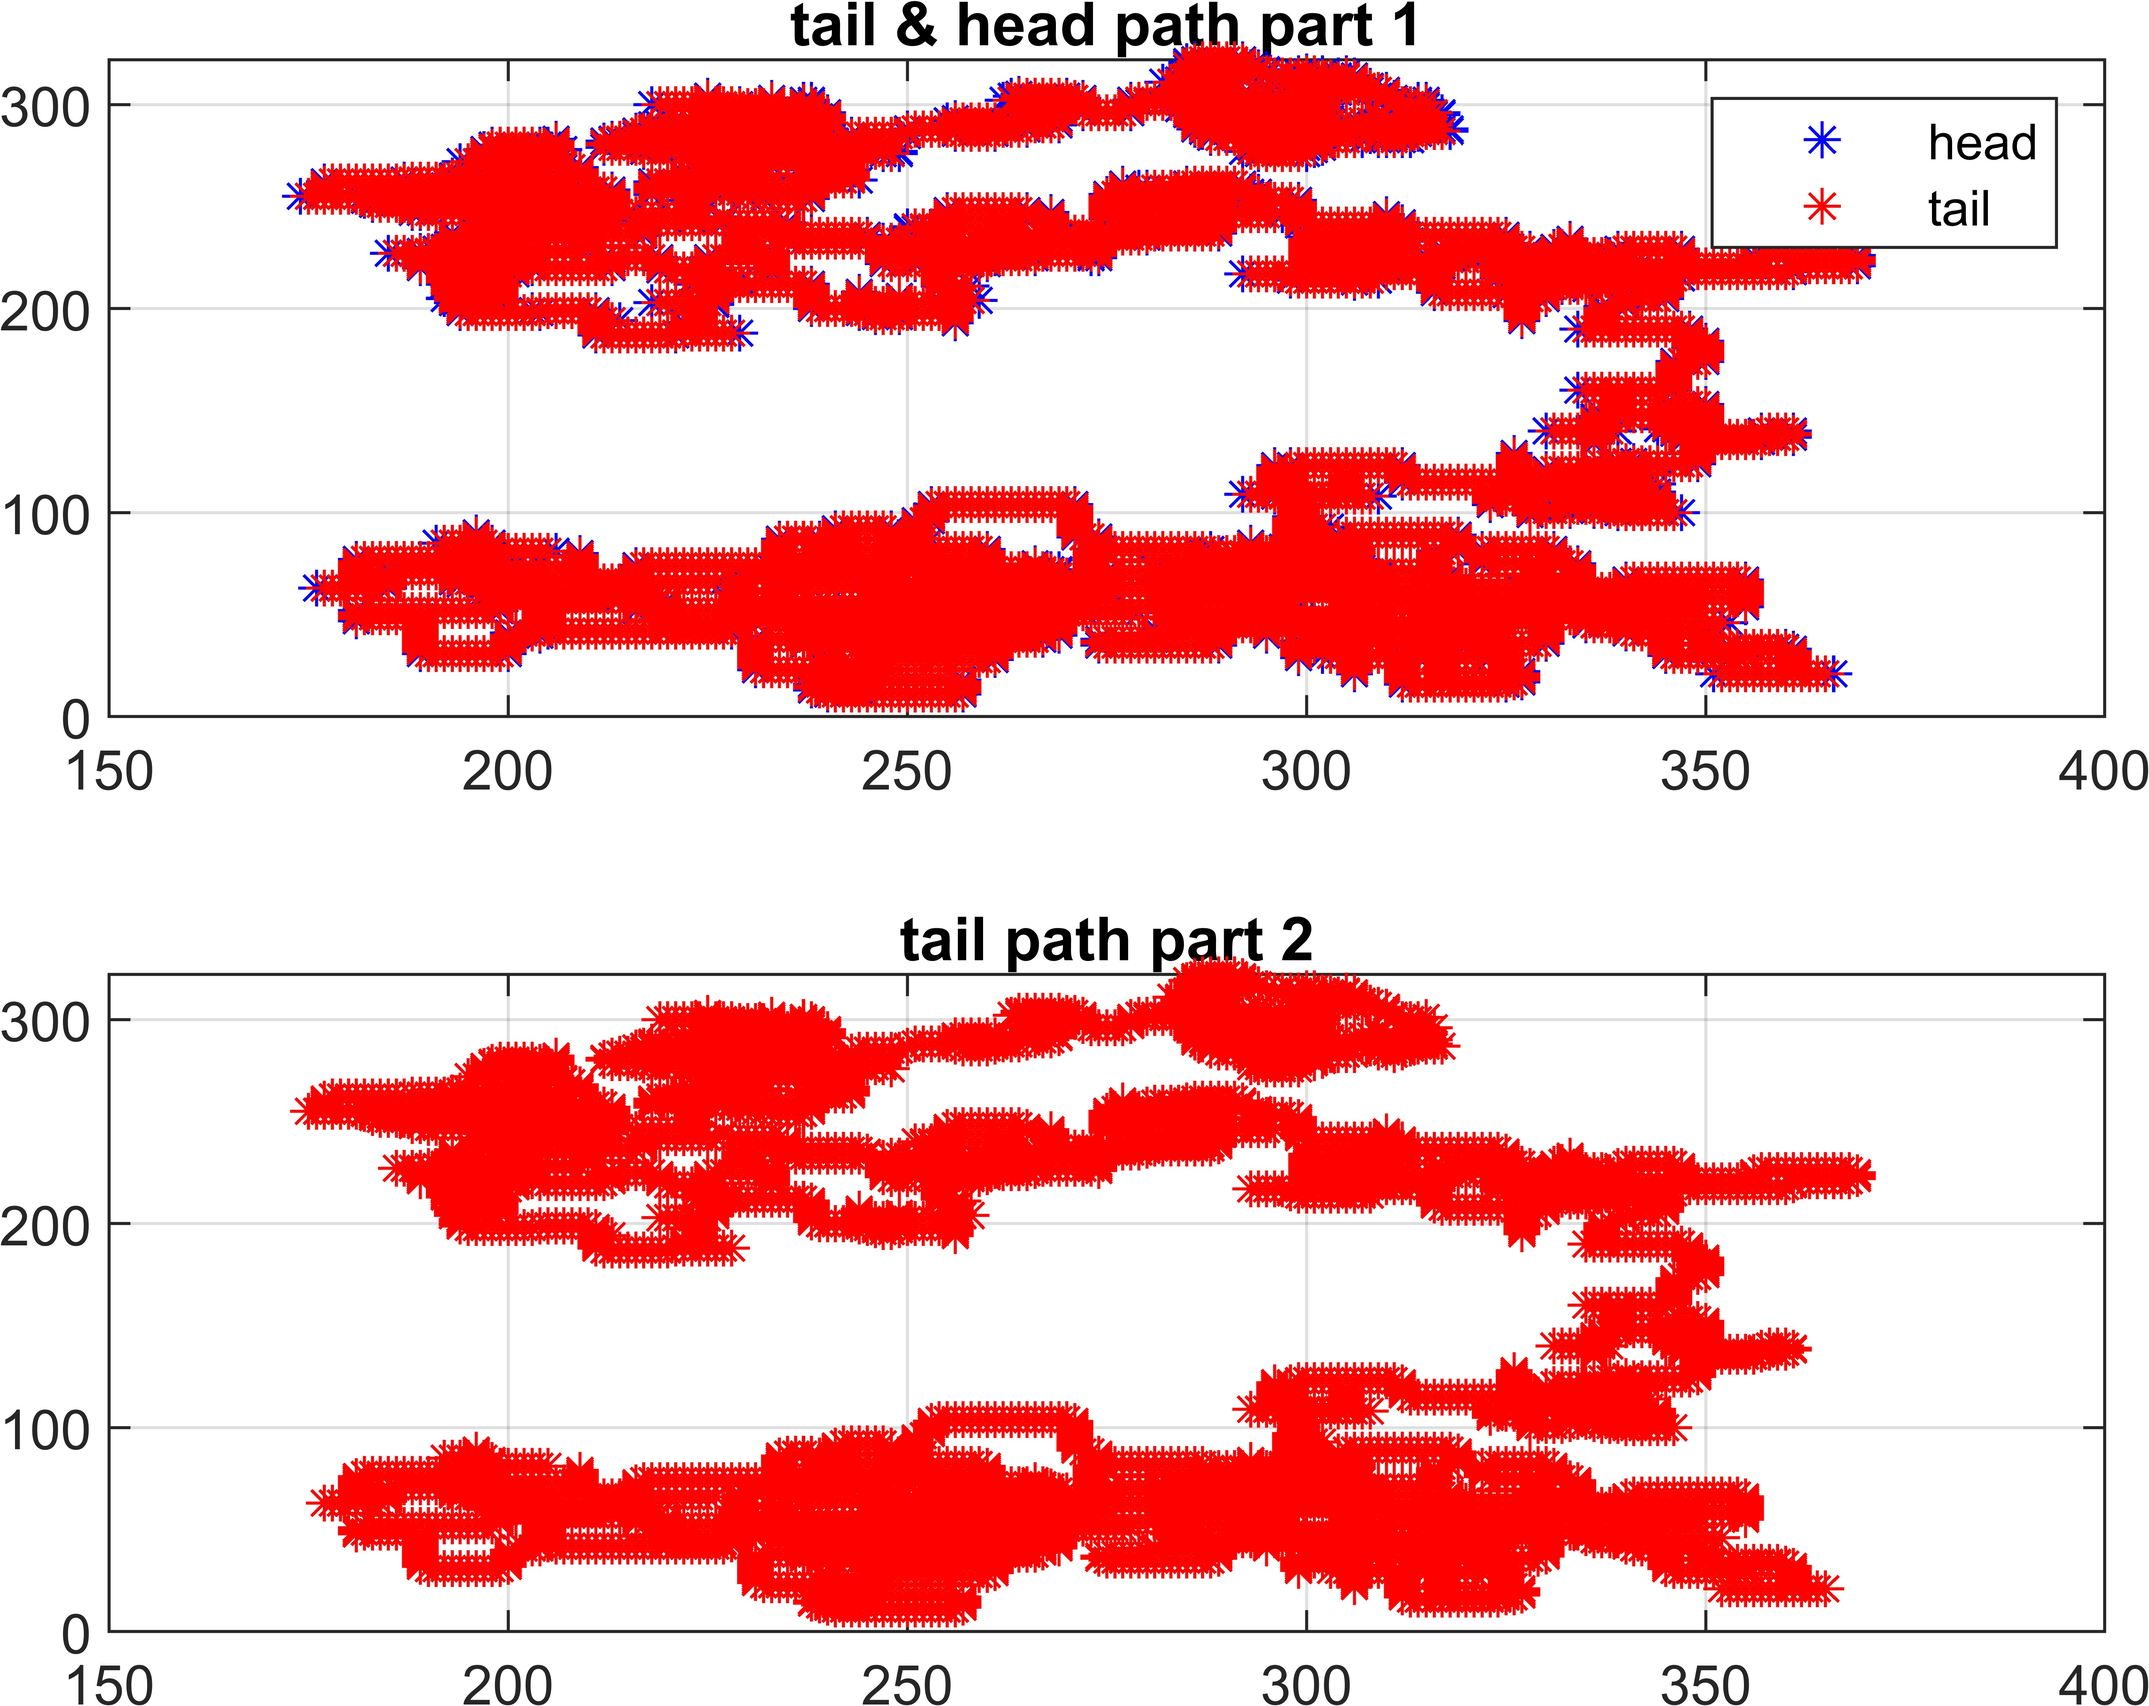
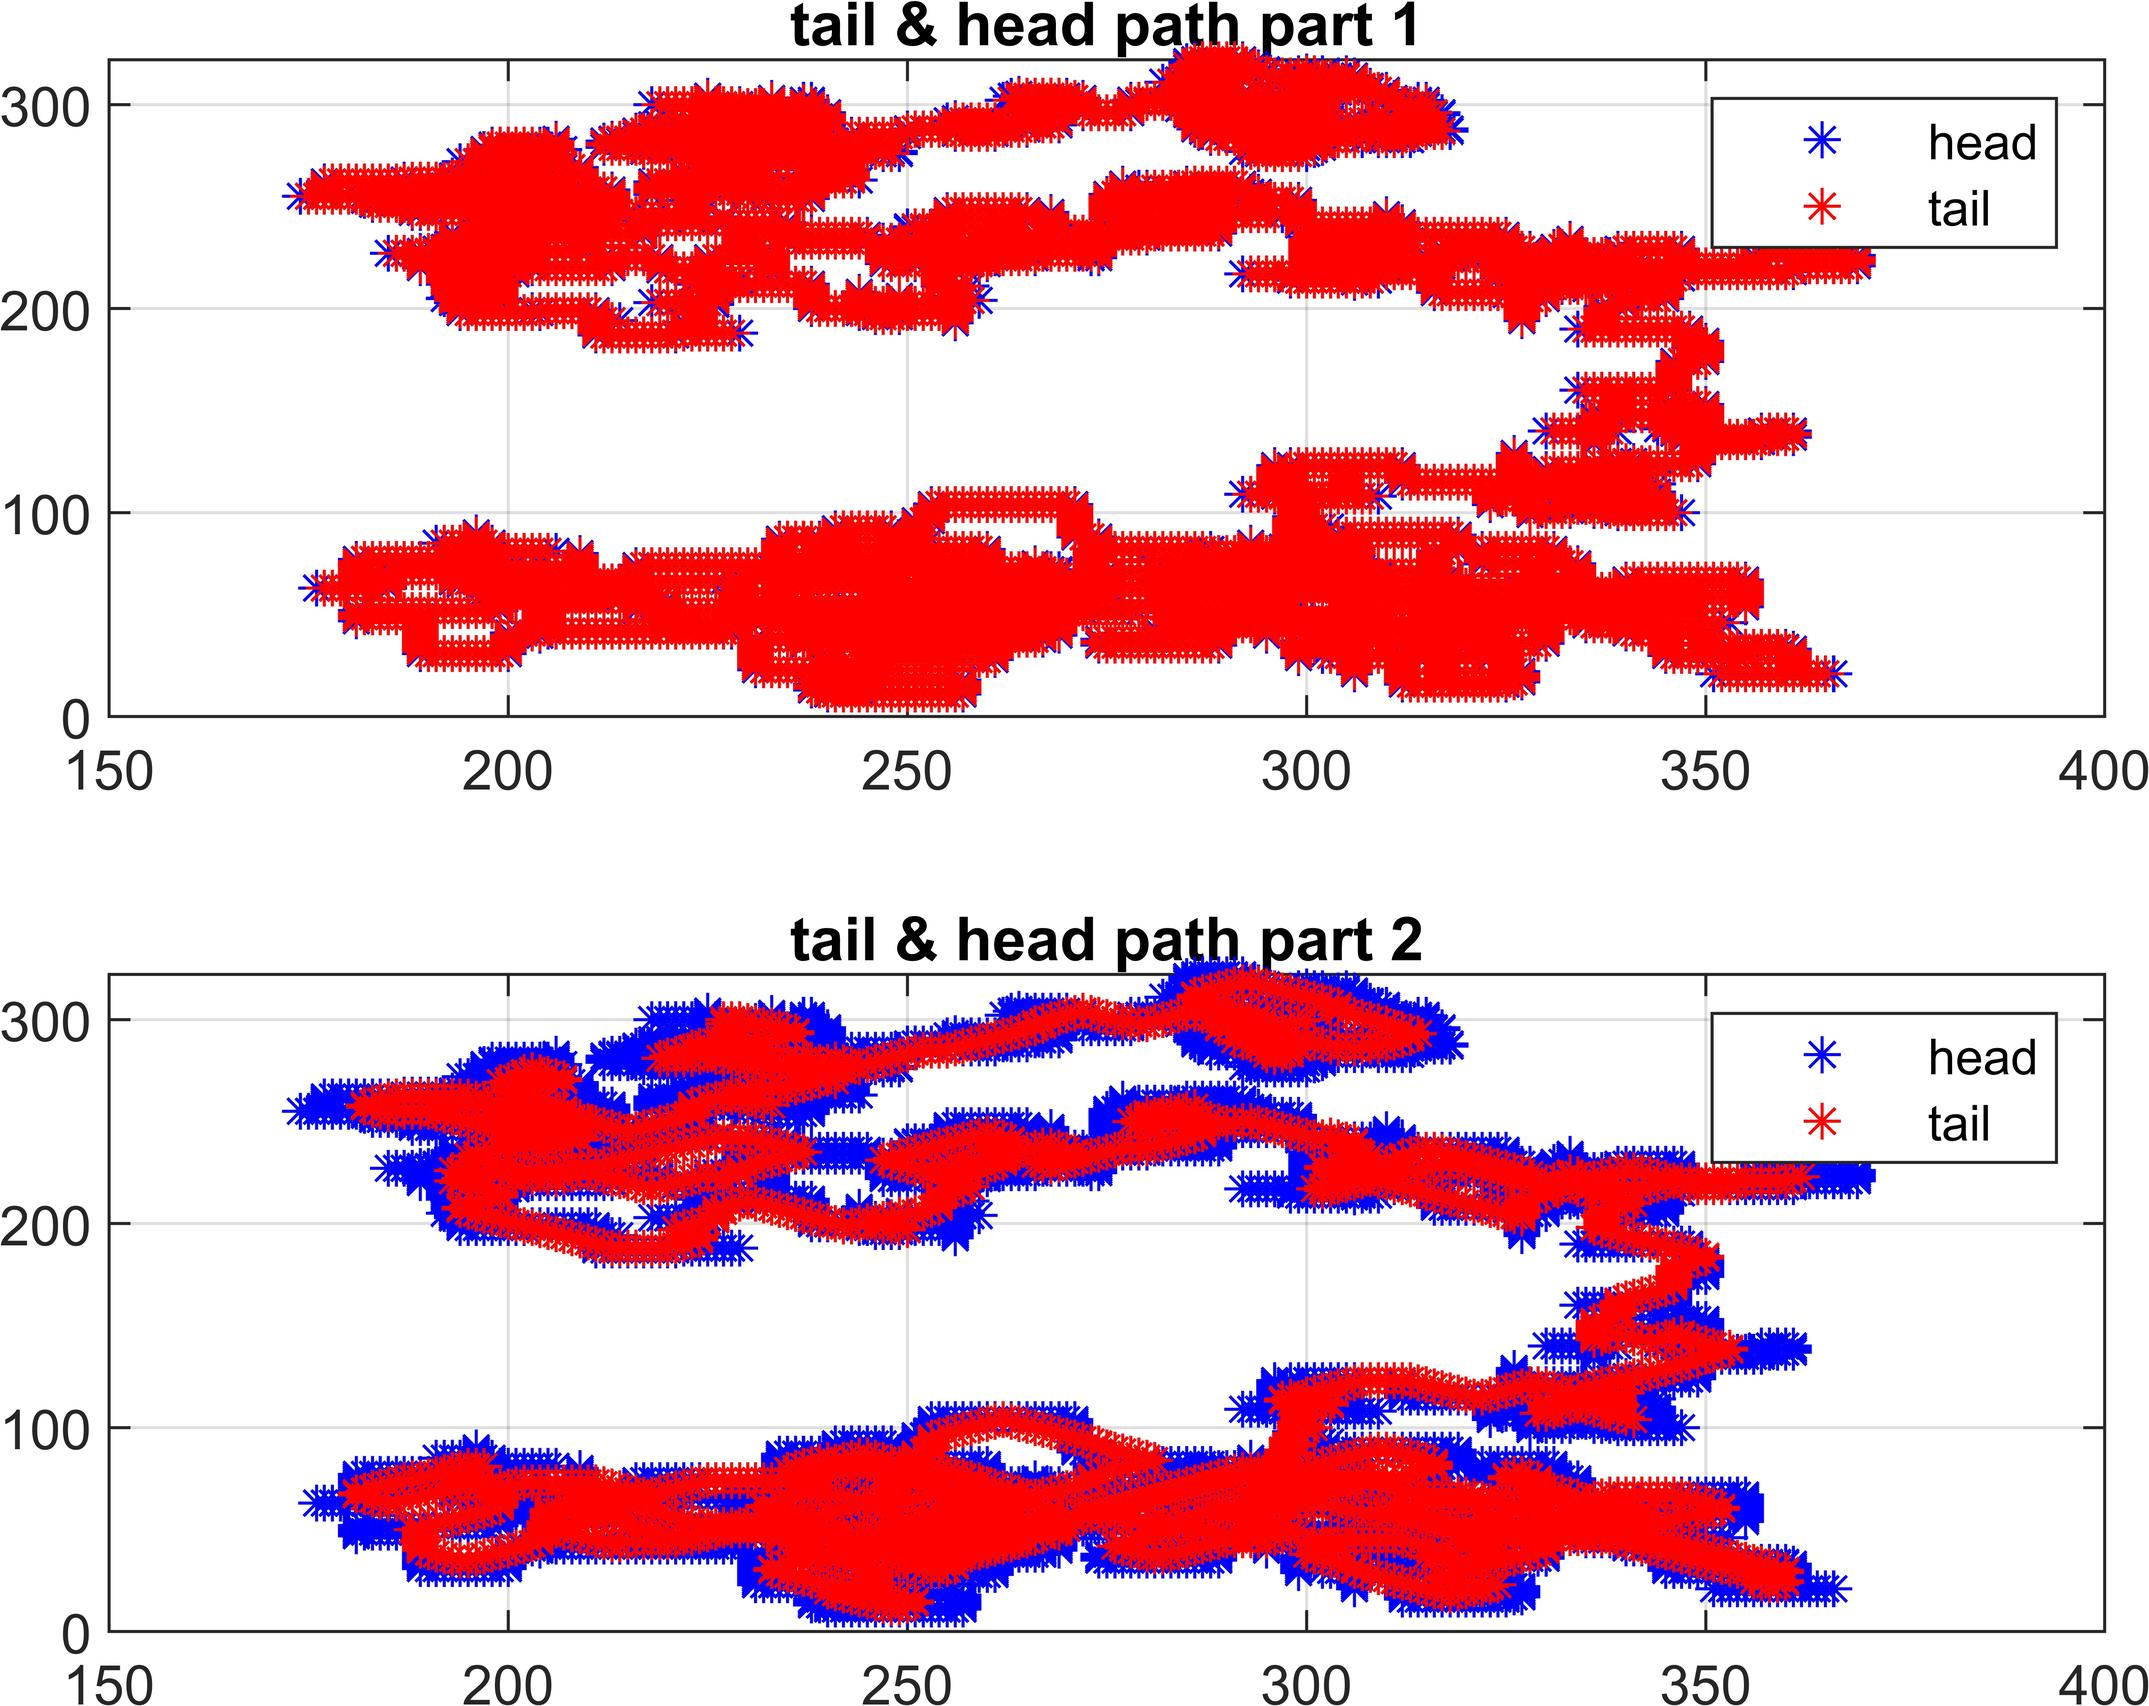
fixed_plot day 9

Changed region(s): [[0.1246, 0.5279, 0.9659, 0.9627]]

diff --git a/day 9/solution.m b/day 9/solution.m
@@ -33,9 +33,12 @@ sz = max(head_visit,[],'all');
 visits = zeros(sz);
 visits( sub2ind(sz*[1 1],head_visit(10,1:2:end),head_visit(10,2:2:end))) = 1;
 subplot(2,1,2)
-plot(head_visit(2,1:2:end),head_visit(2,2:2:end),'r*')
+plot(head_visit(1,1:2:end),head_visit(1,2:2:end),'b*')
+hold on
+plot(head_visit(end,1:2:end),head_visit(end,2:2:end),'r*')
 grid on
-title('tail path part 2')
+legend({'head','tail'})
+title('tail & head path part 2')
 part_2 = sum(visits,'all')
 exportgraphics(gcf,'path_plot.jpeg','Resolution',1200)
 %% functions
